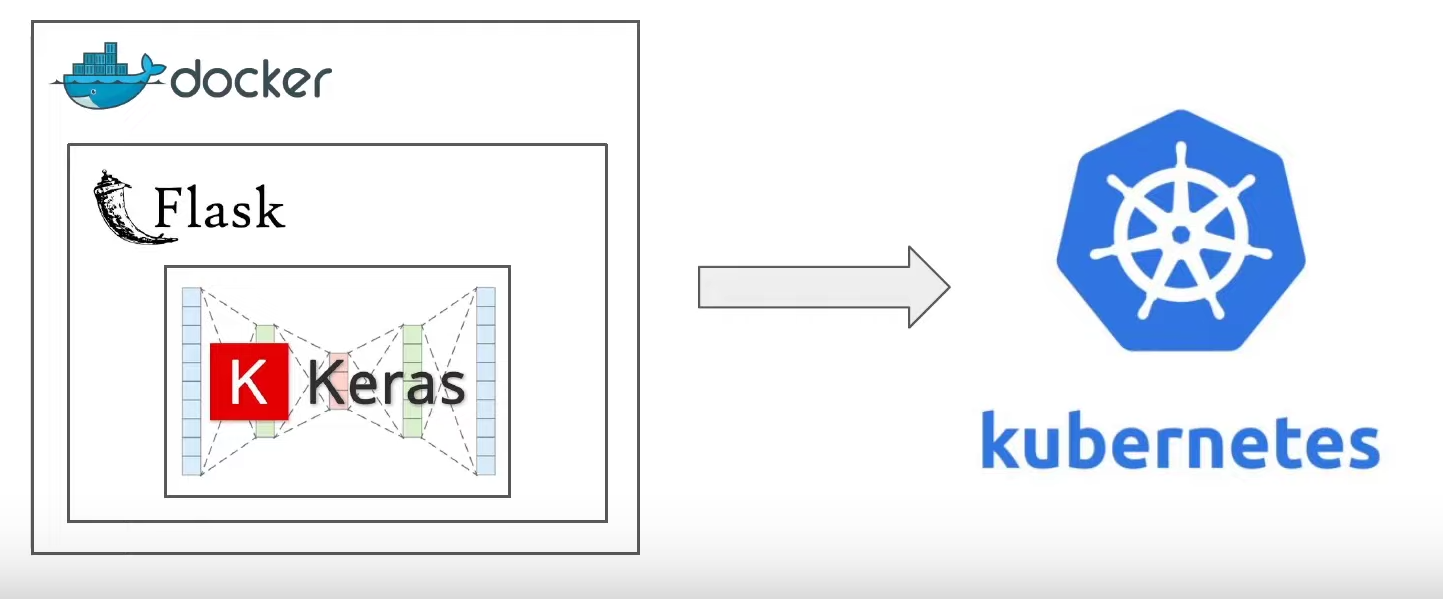
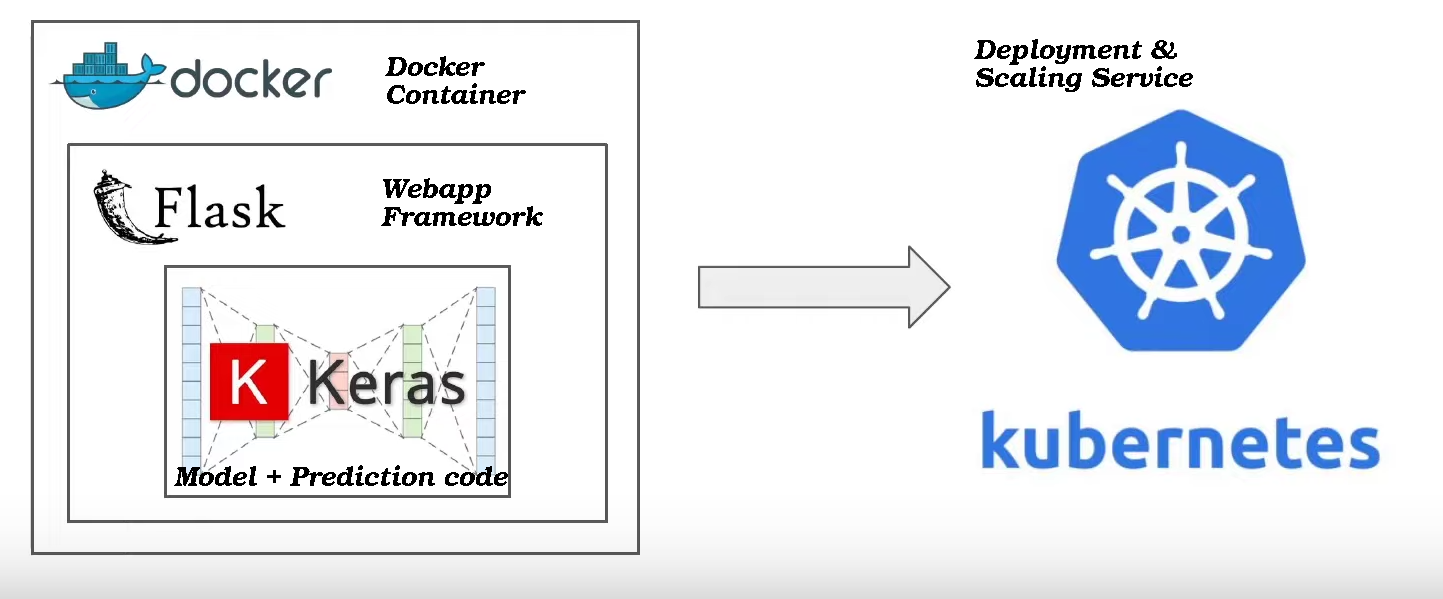
Organized info on deployment. Added basic info on hosting and docker.

diff --git a/AI Vault/General AI Notes/3. Deployment/Deployment Overview.md b/AI Vault/General AI Notes/3. Deployment/Deployment Overview.md
@@ -1,8 +1,9 @@
-[Video source](https://www.youtube.com/watch?v=Mrv3CZNWYEg)
+[main video source](https://www.youtube.com/watch?v=Mrv3CZNWYEg)
 
+Any type of model deployment is known as *model serving*. Model serving is taking a model that you have trained and setting it up so that it can take new inputs from users and return outputs such as predictions.[^1]
 ## Strategies
 #### A. REST API
-Deploy the model on an API service such as [[FastAPI Overview|FastAPI]] or [[Flask Deployment|Flask]]. This is the most common way of deploying an AI model.
+Deploy the model on the web and let users send and receive information. This is done using a [[Choose a Serving Framework|serving framework]]. This is the most common way of deploying an AI model.
 #### B. Edge Deployment
 This is the deployment of an AI model on a small device such as a cell phone or a microcontroller. This can be done using methods like [[Quantization]] or using frameworks such as [[TensorFlow Lite]].
 #### C. Batch Serving
@@ -18,9 +19,11 @@ Create your model, create a flask/FastAPI application for it, wrap it in docker,
 ## Stage 1: Train & Save the Model
 You should know how to do this by now if you're trying to deploy it.
 ## Stage 2: Create a Web App and Dockerize it
-This can be done using any of the REST APIs, but your best bet is to use [[BentoML]].
+This can be done using any of the REST APIs, but your best bet is to use [[BentoML]] since it is optimized for running machine learning models, but you can also use [[FastAPI Overview|FastAPI]] or [[Flask Deployment|Flask]].
 ## Stage 3: Deploy at Scale
 Use a hosting service to take your web app and handle the incoming and outgoing data. These services will also scale the amount of instances open at a single time based on the amount of traffic.
 
 # Strategy B. Edge Deployment
 idk lol but you should definitely [[Quantization|Quantize]] your model so that it can run fast on edge devices and use a framework such as [[TensorFlow Lite]].
+
+[^1]: [How to Serve PyTorch Models with TorchServe](https://www.youtube.com/watch?v=XlO7iQMV3Ik)

diff --git a/AI Vault/General AI Notes/3. Deployment/Strategies/A. Web Deployment (REST APIs)/Choose a Serving Framework.md b/AI Vault/General AI Notes/3. Deployment/Strategies/A. Web Deployment (REST APIs)/Choose a Serving Framework.md
@@ -1,3 +1,6 @@
+>[!info] What you use depends on your situation
+>Each framework has its benefits and drawbacks. Some are much more optimized for Machine Learning, others will run slower but will give you more options in terms of webapp functionality. Some only work for a specific ML training framework. Some only work for a specific deployment service. It all comes down to what you need. All of them will get the job done in the right circumstances.
+
 ## BentoML
 BentoML is probably your best bet for deploying AI models. It is similar to FastAPI and Flask, but the key difference is that those 2 are for general purpose apps. BentoML is specifically for designing and deploying machine learning models. It will optimize your model for you so that your webapp runs much quicker than if you were to use the alternatives. Also open source. Packages all necessary artifices (model+code) in an object called a *Bento*. Supports all major ML libraries. Integrates with Docker. You can also deploy on Kubernetes with an extension called [Yatai](https://github.com/bentoml/Yatai). Automatically generated documentation. Works only with Python. Deployment only.
 ## TensorFlow Serving
@@ -11,6 +14,8 @@ Another framework that takes care of the entire life cycle of a model. It is the
 ## KServe
 Free and open source part of kubflow, an ML workflow framework. Free and open source, used by google. Allows direct serving to a kubernetis cluster. Complex to set up. You can only use Kubernetis to deploy if you use this option.
 
-
-
+## Fast API
+Fast API is a framework for creating web applications, but it is not optimized for machine learning.
+## Flask
+Flask is a framework for creating web applications, but it is not optimized for machine learning.
 ##### [Video Source](https://www.youtube.com/watch?v=Mrv3CZNWYEg)

diff --git a/AI Vault/Formatting Reference.md b/AI Vault/Formatting Reference.md
@@ -1,0 +1,26 @@
+> [!tip] Callouts can have custom titles
+> Like this one.
+
+> [!faq]- Are callouts foldable?
+> Yes! In a foldable callout, the contents are hidden when the callout is collapsed.
+
+## Quotes
+
+You can quote text by adding a `>` symbols before the text.
+
+
+> Human beings face ever more complex and urgent problems, and their effectiveness in dealing with these problems is a matter that is critical to the stability and continued progress of society.
+
+\- Doug Engelbart, 1961
+
+
+## Footnotes
+This is a simple footnote[^1].
+
+[^1]: This is the referenced text.
+[^2]: Add 2 spaces at the start of each new line.
+  This lets you write footnotes that span multiple lines.
+[^note]: Named footnotes still appear as numbers, but can make it easier to identify and link references.
+
+
+[More info about obisidian formatting](https://help.obsidian.md/Editing+and+formatting/Basic+formatting+syntax)

diff --git a/AI Vault/General AI Notes/3. Deployment/Strategies/A. Web Deployment (REST APIs)/II. Docker/Docker Overview.md b/AI Vault/General AI Notes/3. Deployment/Strategies/A. Web Deployment (REST APIs)/II. Docker/Docker Overview.md
@@ -1,0 +1,1 @@
+Docker is a service that allows you to compartmentalize your programs so that they can run in server farms much more optimally. Docker images are called "containers". The idea is rather than having a single server instance host 1 app, a single server instance can host multiple containers at once. Each container has information about the program, endpoints and dependencies, so the server will be running virtual instances of your program based on this info. 

diff --git a/AI Vault/General AI Notes/3. Deployment/Strategies/A. Web Deployment (REST APIs)/III. Hosting Frameworks/Hosting Overview.md b/AI Vault/General AI Notes/3. Deployment/Strategies/A. Web Deployment (REST APIs)/III. Hosting Frameworks/Hosting Overview.md
@@ -1,0 +1,1 @@
+Once you have your model containerized/dockerized and ready for deployment, you have to figure out how you are going to host it so that users on the web can interact with it. As with the services that allow you to have Rest APIs, there are tons of services available.
